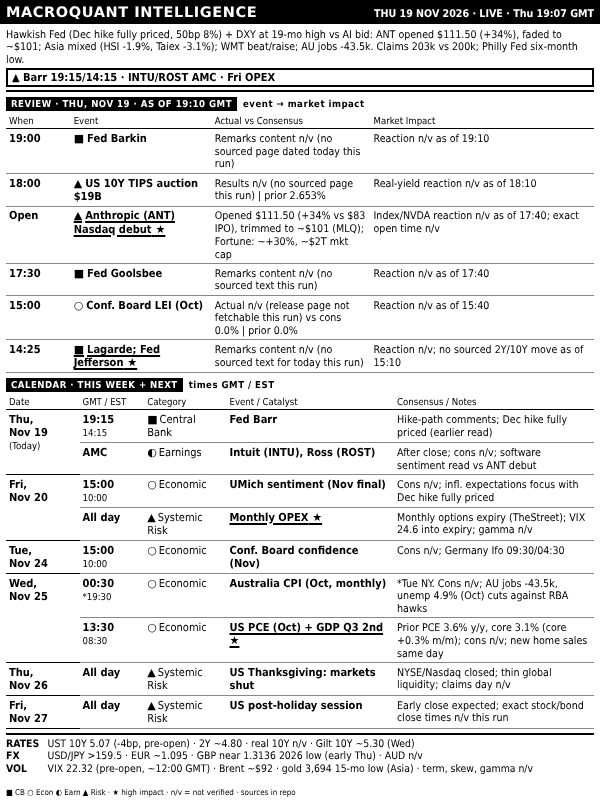
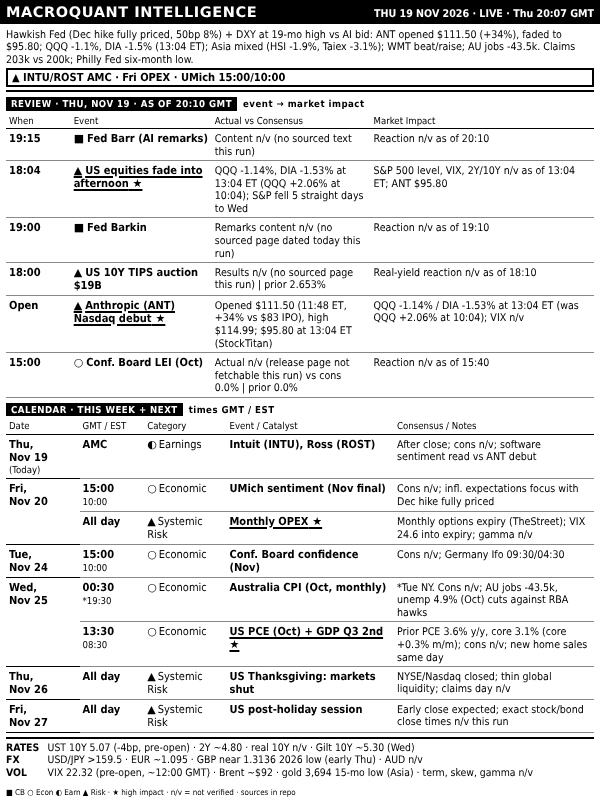
dashboard: THU 19 NOV 2026 LIVE 20:10
Claude-Session: https://claude.ai/code/session_016SJqa7MtkSZBEHJe9DkMNU

Changed region(s): [[0.0, 0.1562, 0.99, 0.9688], [0.0, 0.0312, 0.96, 0.125], [0.0, 0.1562, 0.09, 0.3438]]

diff --git a/out/dashboard.html b/out/dashboard.html
@@ -38,11 +38,11 @@ table.bd{border-collapse:collapse;width:100%;table-layout:fixed;margin-top:1px}
 </style></head><body>
 <div id="root">
  <div class="hdr"><span class="t">MACROQUANT INTELLIGENCE</span>
-  <span class="r">THU 19 NOV 2026 · LIVE · Thu 19:07 GMT</span></div>
- <div class="ban"><div class="rg">Hawkish Fed (Dec hike fully priced, 50bp 8%) + DXY at 19-mo high vs AI bid: ANT opened $111.50 (+34%), faded to ~$101; Asia mixed (HSI -1.9%, Taiex -3.1%); WMT beat/raise; AU jobs -43.5k. Claims 203k vs 200k; Philly Fed six-month low.</div><div class="al">▲ Barr 19:15/14:15 · INTU/ROST AMC · Fri OPEX</div></div>
- <div class="sl"><span>REVIEW · THU, NOV 19 · AS OF 19:10 GMT</span>event → market impact</div><table class="bd rv"><colgroup><col style="width:11%"><col style="width:24%"><col style="width:27%"><col></colgroup><tr><th>When</th><th>Event</th><th>Actual vs Consensus</th><th>Market Impact</th></tr><tr><td class="tm"><b>19:00</b></td><td class="ev"><i>■</i>Fed Barkin</td><td class="ac">Remarks content n/v (no sourced page dated today this run)</td><td class="nt">Reaction n/v as of 19:10</td></tr><tr><td class="tm"><b>18:00</b></td><td class="ev"><i>▲</i>US 10Y TIPS auction $19B</td><td class="ac">Results n/v (no sourced page this run) | prior 2.653%</td><td class="nt">Real-yield reaction n/v as of 18:10</td></tr><tr class="h"><td class="tm"><b>Open</b></td><td class="ev"><i>▲</i>Anthropic (ANT) Nasdaq debut</td><td class="ac">Opened $111.50 (+34% vs $83 IPO), trimmed to ~$101 (MLQ); Fortune: ~+30%, ~$2T mkt cap</td><td class="nt">Index/NVDA reaction n/v as of 17:40; exact open time n/v</td></tr><tr><td class="tm"><b>17:30</b></td><td class="ev"><i>■</i>Fed Goolsbee</td><td class="ac">Remarks content n/v (no sourced text this run)</td><td class="nt">Reaction n/v as of 17:40</td></tr><tr><td class="tm"><b>15:00</b></td><td class="ev"><i>○</i>Conf. Board LEI (Oct)</td><td class="ac">Actual n/v (release page not fetchable this run) vs cons 0.0% | prior 0.0%</td><td class="nt">Reaction n/v as of 15:40</td></tr><tr class="h"><td class="tm"><b>14:25</b></td><td class="ev"><i>■</i>Lagarde; Fed Jefferson</td><td class="ac">Remarks content n/v (no sourced text for today this run)</td><td class="nt">Reaction n/v; no sourced 2Y/10Y move as of 15:10</td></tr></table>
+  <span class="r">THU 19 NOV 2026 · LIVE · Thu 20:07 GMT</span></div>
+ <div class="ban"><div class="rg">Hawkish Fed (Dec hike fully priced, 50bp 8%) + DXY at 19-mo high vs AI bid: ANT opened $111.50 (+34%), faded to $95.80; QQQ -1.1%, DIA -1.5% (13:04 ET); Asia mixed (HSI -1.9%, Taiex -3.1%); WMT beat/raise; AU jobs -43.5k. Claims 203k vs 200k; Philly Fed six-month low.</div><div class="al">▲ INTU/ROST AMC · Fri OPEX · UMich 15:00/10:00</div></div>
+ <div class="sl"><span>REVIEW · THU, NOV 19 · AS OF 20:10 GMT</span>event → market impact</div><table class="bd rv"><colgroup><col style="width:11%"><col style="width:24%"><col style="width:27%"><col></colgroup><tr><th>When</th><th>Event</th><th>Actual vs Consensus</th><th>Market Impact</th></tr><tr><td class="tm"><b>19:15</b></td><td class="ev"><i>■</i>Fed Barr (AI remarks)</td><td class="ac">Content n/v (no sourced text this run)</td><td class="nt">Reaction n/v as of 20:10</td></tr><tr class="h"><td class="tm"><b>18:04</b></td><td class="ev"><i>▲</i>US equities fade into afternoon</td><td class="ac">QQQ -1.14%, DIA -1.53% at 13:04 ET (QQQ +2.06% at 10:04); S&amp;P fell 5 straight days to Wed</td><td class="nt">S&amp;P 500 level, VIX, 2Y/10Y n/v as of 13:04 ET; ANT $95.80</td></tr><tr><td class="tm"><b>19:00</b></td><td class="ev"><i>■</i>Fed Barkin</td><td class="ac">Remarks content n/v (no sourced page dated today this run)</td><td class="nt">Reaction n/v as of 19:10</td></tr><tr><td class="tm"><b>18:00</b></td><td class="ev"><i>▲</i>US 10Y TIPS auction $19B</td><td class="ac">Results n/v (no sourced page this run) | prior 2.653%</td><td class="nt">Real-yield reaction n/v as of 18:10</td></tr><tr class="h"><td class="tm"><b>Open</b></td><td class="ev"><i>▲</i>Anthropic (ANT) Nasdaq debut</td><td class="ac">Opened $111.50 (11:48 ET, +34% vs $83 IPO), high $114.99; $95.80 at 13:04 ET (StockTitan)</td><td class="nt">QQQ -1.14% / DIA -1.53% at 13:04 ET (was QQQ +2.06% at 10:04); VIX n/v</td></tr><tr><td class="tm"><b>15:00</b></td><td class="ev"><i>○</i>Conf. Board LEI (Oct)</td><td class="ac">Actual n/v (release page not fetchable this run) vs cons 0.0% | prior 0.0%</td><td class="nt">Reaction n/v as of 15:40</td></tr></table>
  <div class="sl"><span>CALENDAR · THIS WEEK + NEXT</span>times GMT / EST</div>
- <table class="bd"><colgroup><col style="width:12.5%"><col style="width:11%"><col style="width:14%"><col style="width:28.5%"><col></colgroup><tr><th>Date</th><th>GMT / EST</th><th>Category</th><th>Event / Catalyst</th><th>Consensus / Notes</th></tr><tr class="g0"><td class="dt" rowspan="2">Thu,<br>Nov&nbsp;19<span class="tg">(Today)</span></td><td class="tm"><b>19:15</b><span>14:15</span></td><td class="ct"><i>■</i>Central Bank</td><td class="ev">Fed Barr</td><td class="nt">Hike-path comments; Dec hike fully priced (earlier read)</td></tr><tr class=""><td class="tm"><b>AMC</b></td><td class="ct"><i>◐</i>Earnings</td><td class="ev">Intuit (INTU), Ross (ROST)</td><td class="nt">After close; cons n/v; software sentiment read vs ANT debut</td></tr><tr class="g0"><td class="dt" rowspan="2">Fri,<br>Nov&nbsp;20</td><td class="tm"><b>15:00</b><span>10:00</span></td><td class="ct"><i>○</i>Economic</td><td class="ev">UMich sentiment (Nov final)</td><td class="nt">Cons n/v; infl. expectations focus with Dec hike fully priced</td></tr><tr class="h"><td class="tm"><b>All day</b></td><td class="ct"><i>▲</i>Systemic Risk</td><td class="ev">Monthly OPEX</td><td class="nt">Monthly options expiry (TheStreet); VIX 24.6 into expiry; gamma n/v</td></tr><tr class="g0"><td class="dt" rowspan="1">Tue,<br>Nov&nbsp;24</td><td class="tm"><b>15:00</b><span>10:00</span></td><td class="ct"><i>○</i>Economic</td><td class="ev">Conf. Board confidence (Nov)</td><td class="nt">Cons n/v; Germany Ifo 09:30/04:30</td></tr><tr class="g0"><td class="dt" rowspan="2">Wed,<br>Nov&nbsp;25</td><td class="tm"><b>00:30</b><span>*19:30</span></td><td class="ct"><i>○</i>Economic</td><td class="ev">Australia CPI (Oct, monthly)</td><td class="nt">*Tue NY. Cons n/v; AU jobs -43.5k, unemp 4.9% (Oct) cuts against RBA hawks</td></tr><tr class="h"><td class="tm"><b>13:30</b><span>08:30</span></td><td class="ct"><i>○</i>Economic</td><td class="ev">US PCE (Oct) + GDP Q3 2nd</td><td class="nt">Prior PCE 3.6% y/y, core 3.1% (core +0.3% m/m); cons n/v; new home sales same day</td></tr><tr class="g0"><td class="dt" rowspan="1">Thu,<br>Nov&nbsp;26</td><td class="tm"><b>All day</b></td><td class="ct"><i>▲</i>Systemic Risk</td><td class="ev">US Thanksgiving: markets shut</td><td class="nt">NYSE/Nasdaq closed; thin global liquidity; claims day n/v</td></tr><tr class="g0"><td class="dt" rowspan="1">Fri,<br>Nov&nbsp;27</td><td class="tm"><b>All day</b></td><td class="ct"><i>▲</i>Systemic Risk</td><td class="ev">US post-holiday session</td><td class="nt">Early close expected; exact stock/bond close times n/v this run</td></tr></table>
+ <table class="bd"><colgroup><col style="width:12.5%"><col style="width:11%"><col style="width:14%"><col style="width:28.5%"><col></colgroup><tr><th>Date</th><th>GMT / EST</th><th>Category</th><th>Event / Catalyst</th><th>Consensus / Notes</th></tr><tr class="g0"><td class="dt" rowspan="1">Thu,<br>Nov&nbsp;19<span class="tg">(Today)</span></td><td class="tm"><b>AMC</b></td><td class="ct"><i>◐</i>Earnings</td><td class="ev">Intuit (INTU), Ross (ROST)</td><td class="nt">After close; cons n/v; software sentiment read vs ANT debut</td></tr><tr class="g0"><td class="dt" rowspan="2">Fri,<br>Nov&nbsp;20</td><td class="tm"><b>15:00</b><span>10:00</span></td><td class="ct"><i>○</i>Economic</td><td class="ev">UMich sentiment (Nov final)</td><td class="nt">Cons n/v; infl. expectations focus with Dec hike fully priced</td></tr><tr class="h"><td class="tm"><b>All day</b></td><td class="ct"><i>▲</i>Systemic Risk</td><td class="ev">Monthly OPEX</td><td class="nt">Monthly options expiry (TheStreet); VIX 24.6 into expiry; gamma n/v</td></tr><tr class="g0"><td class="dt" rowspan="1">Tue,<br>Nov&nbsp;24</td><td class="tm"><b>15:00</b><span>10:00</span></td><td class="ct"><i>○</i>Economic</td><td class="ev">Conf. Board confidence (Nov)</td><td class="nt">Cons n/v; Germany Ifo 09:30/04:30</td></tr><tr class="g0"><td class="dt" rowspan="2">Wed,<br>Nov&nbsp;25</td><td class="tm"><b>00:30</b><span>*19:30</span></td><td class="ct"><i>○</i>Economic</td><td class="ev">Australia CPI (Oct, monthly)</td><td class="nt">*Tue NY. Cons n/v; AU jobs -43.5k, unemp 4.9% (Oct) cuts against RBA hawks</td></tr><tr class="h"><td class="tm"><b>13:30</b><span>08:30</span></td><td class="ct"><i>○</i>Economic</td><td class="ev">US PCE (Oct) + GDP Q3 2nd</td><td class="nt">Prior PCE 3.6% y/y, core 3.1% (core +0.3% m/m); cons n/v; new home sales same day</td></tr><tr class="g0"><td class="dt" rowspan="1">Thu,<br>Nov&nbsp;26</td><td class="tm"><b>All day</b></td><td class="ct"><i>▲</i>Systemic Risk</td><td class="ev">US Thanksgiving: markets shut</td><td class="nt">NYSE/Nasdaq closed; thin global liquidity; claims day n/v</td></tr><tr class="g0"><td class="dt" rowspan="1">Fri,<br>Nov&nbsp;27</td><td class="tm"><b>All day</b></td><td class="ct"><i>▲</i>Systemic Risk</td><td class="ev">US post-holiday session</td><td class="nt">Early close expected; exact stock/bond close times n/v this run</td></tr></table>
  <div class="lv"><div><b>RATES</b>UST 10Y 5.07 (-4bp, pre-open) · 2Y ~4.80 · real 10Y n/v · Gilt 10Y ~5.30 (Wed)</div><div><b>FX</b>USD/JPY &gt;159.5 · EUR ~1.095 · GBP near 1.3136 2026 low (early Thu) · AUD n/v</div><div><b>VOL</b>VIX 22.32 (pre-open, ~12:00 GMT) · Brent ~$92 · gold 3,694 15-mo low (Asia) · term, skew, gamma n/v</div></div>
 </div>
 <div class="foot">■ CB ○ Econ ◐ Earn ▲ Risk · ★ high impact · n/v = not verified · sources in repo</div>
